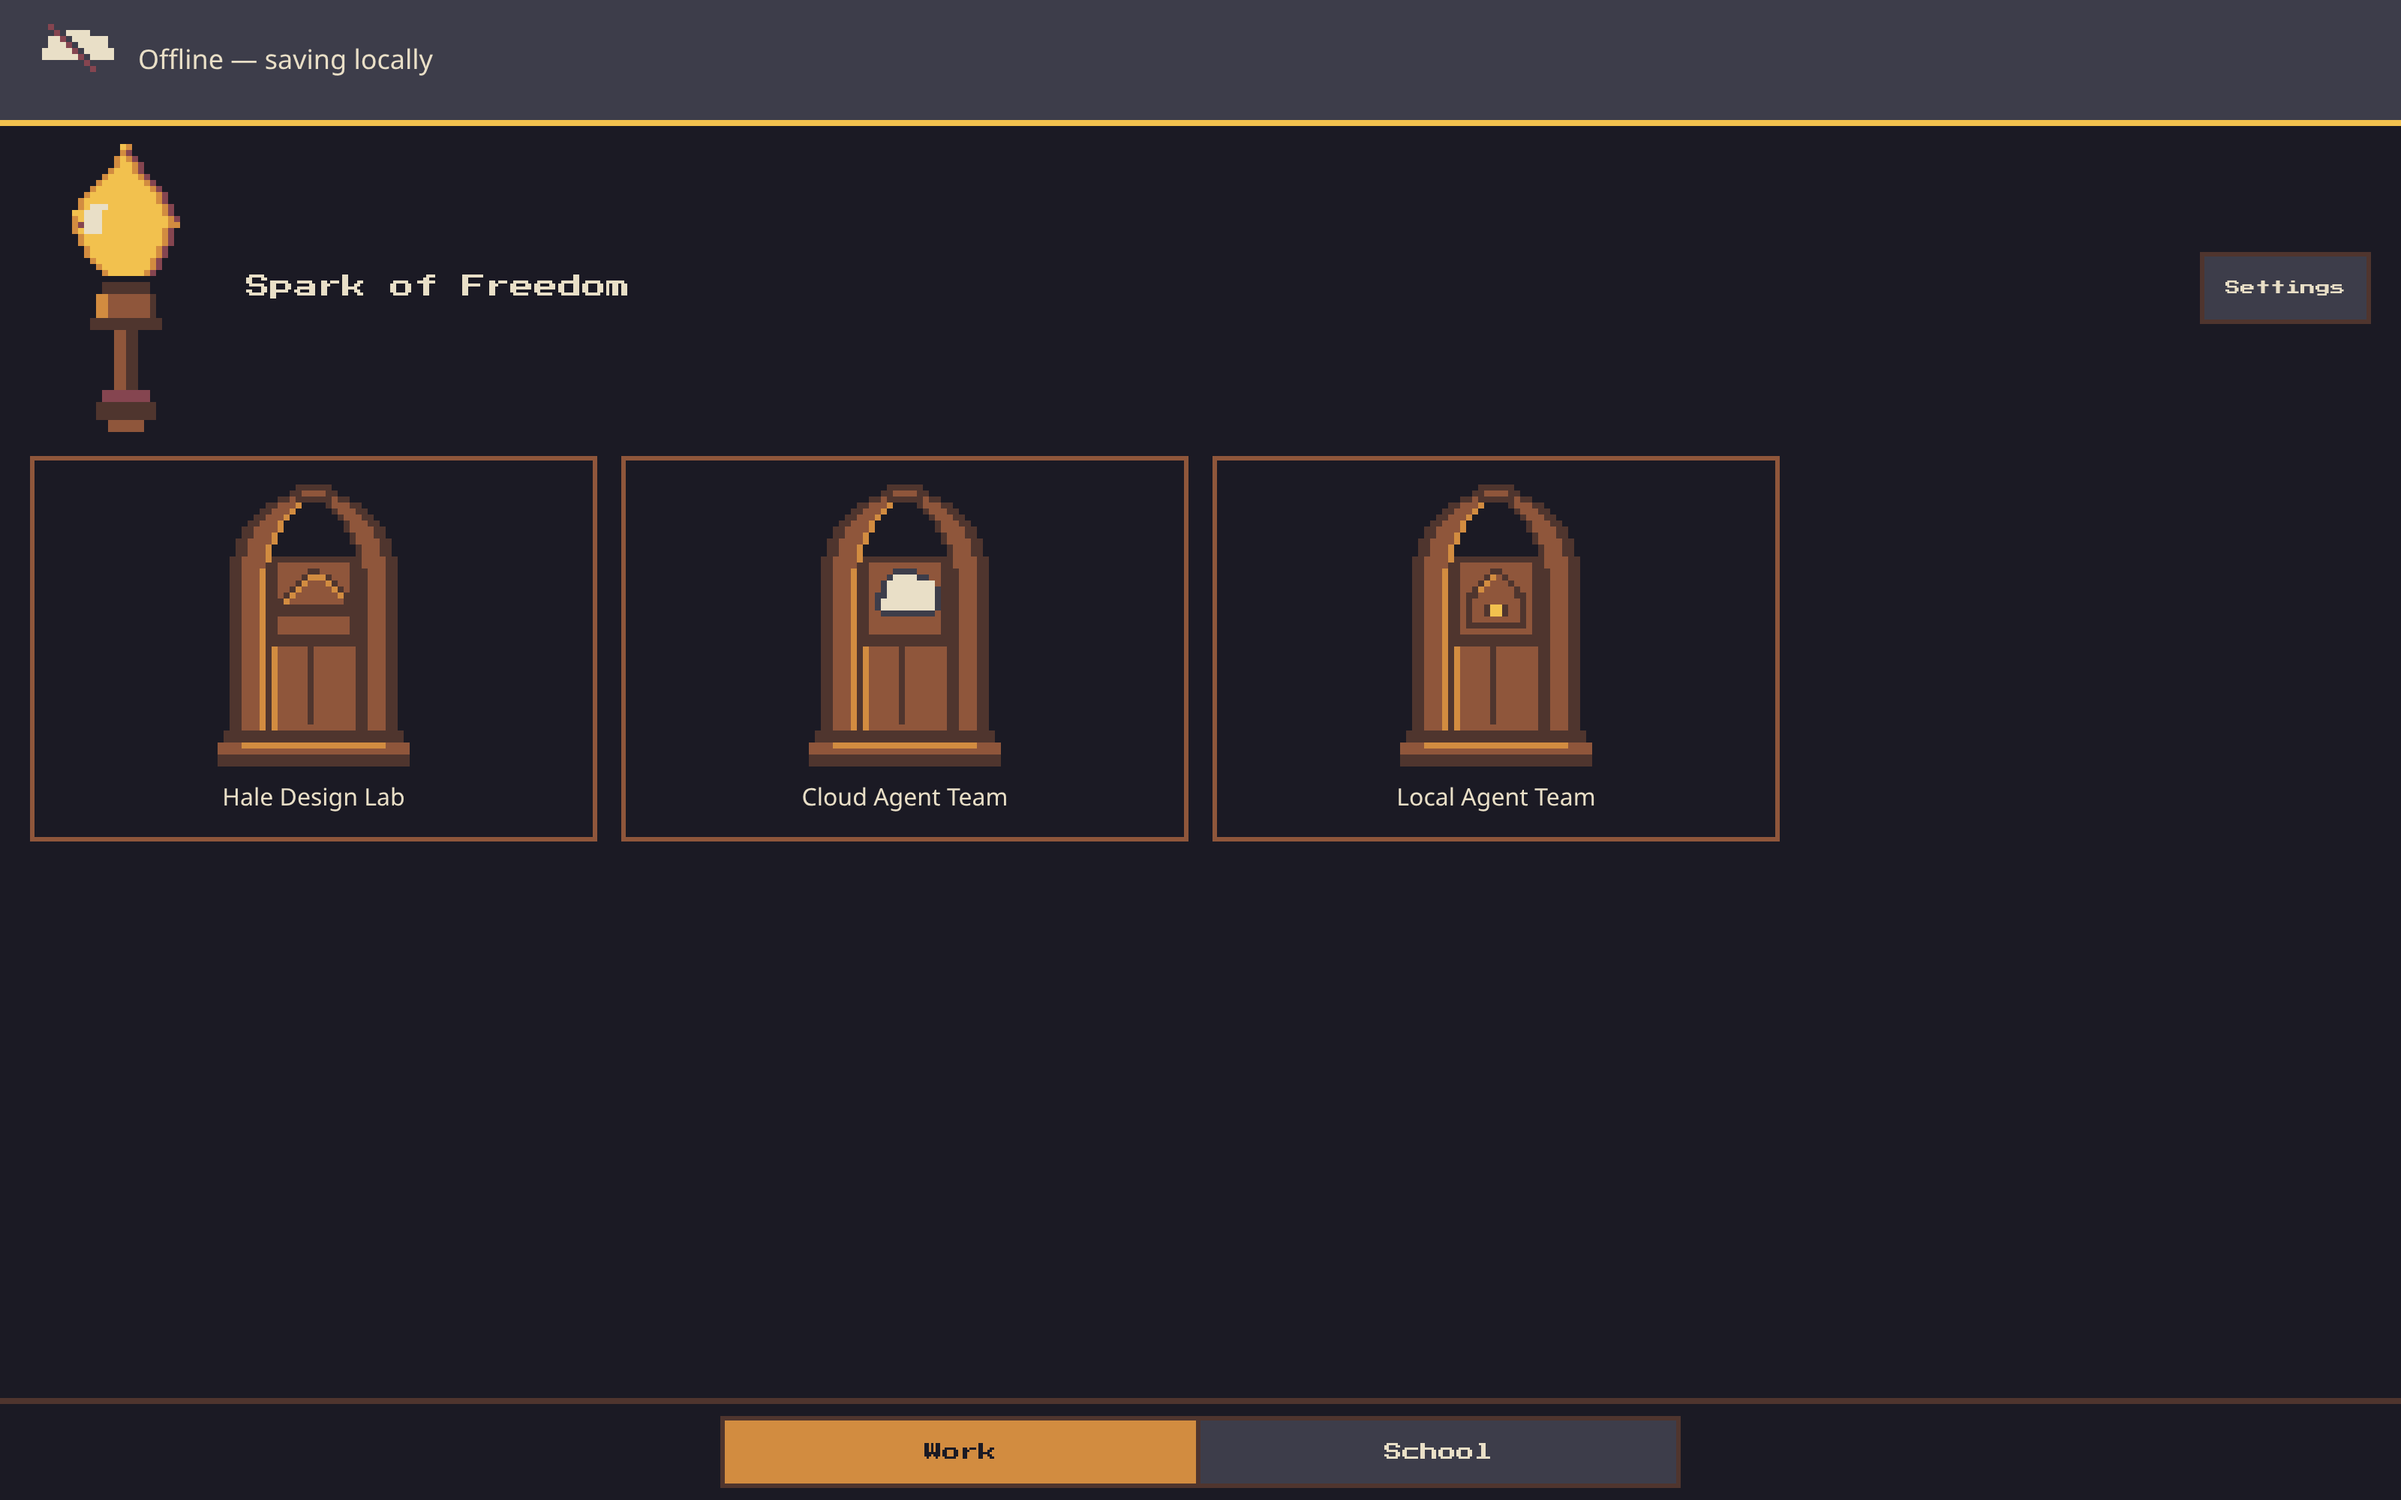
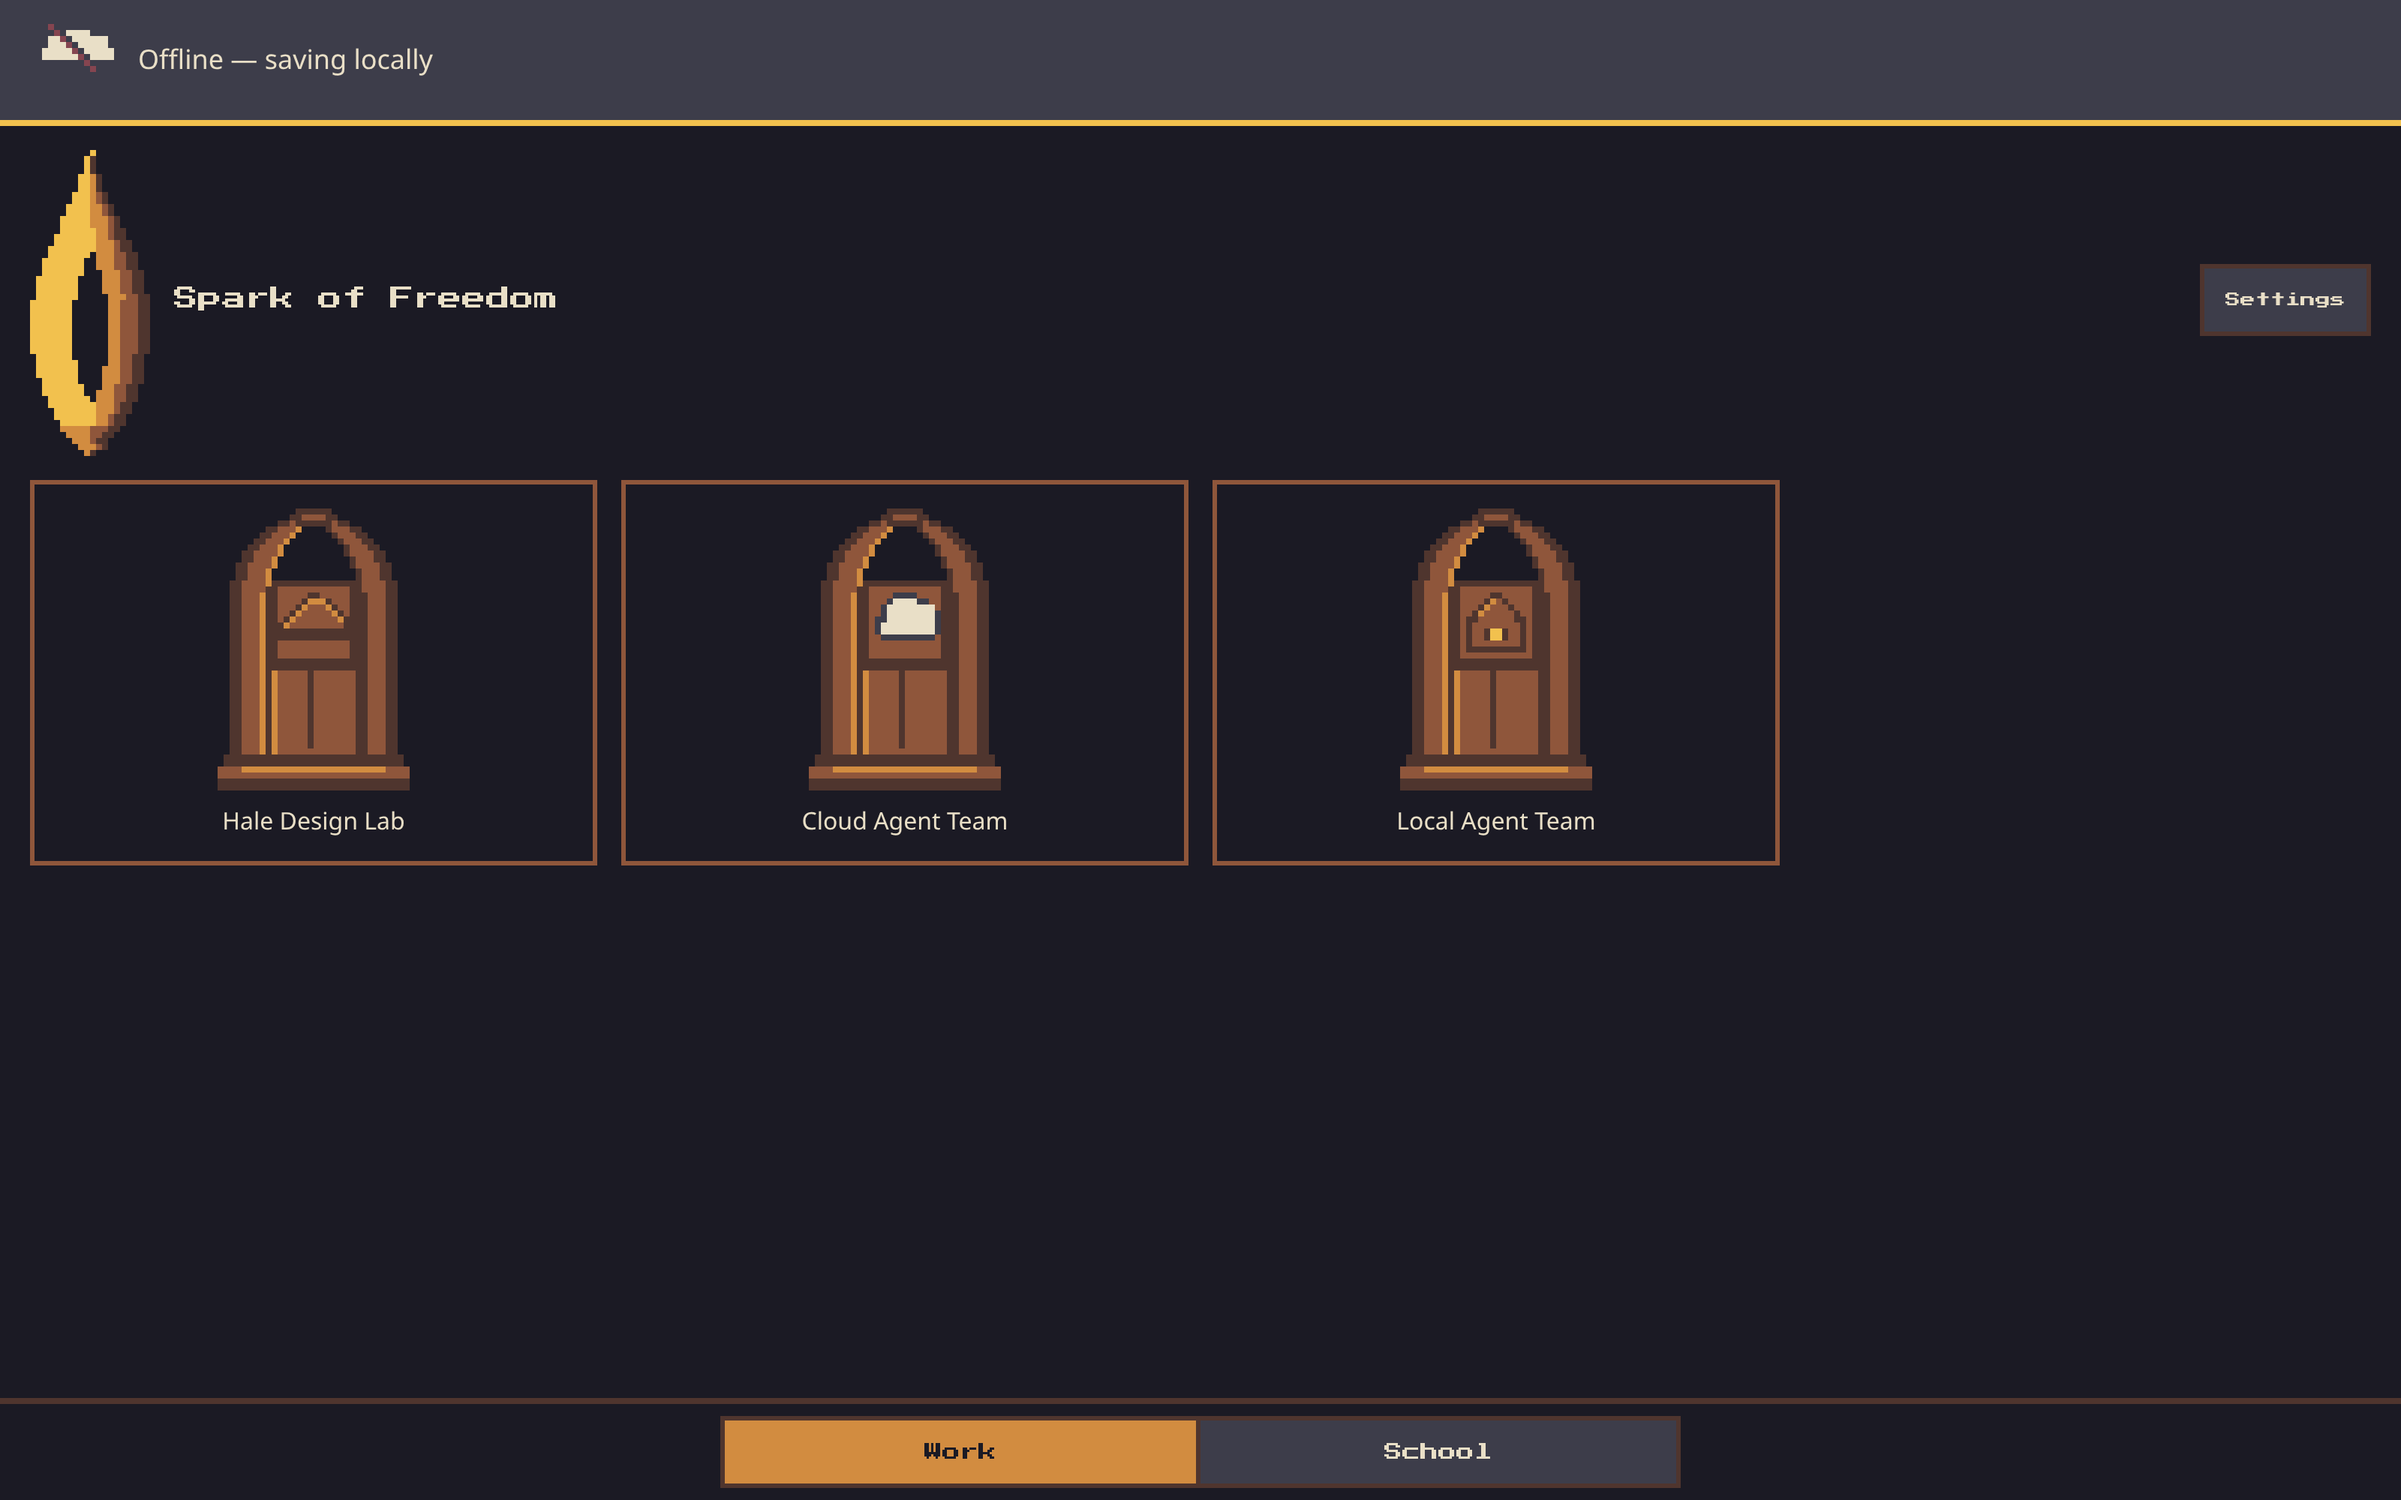
Pixelize the Monastery flame as the splash mark.
Replace the torch glyph with the almond flame only, drawn in the Founder Ember palette, on the splash, the home header, and the desktop rail.

diff --git a/client/src/design/sprites/flame.ts b/client/src/design/sprites/flame.ts
@@ -1,52 +1,60 @@
 import type { SpriteGrid } from "./types";
 
+/**
+ * Sovereign Monastery flame, flame only: the gold almond with a hollow centre,
+ * pixelized into Founder Ember. No diamond frame and no torch stand.
+ */
 export const flame: SpriteGrid = [
-  "...............fe...............",
-  "...............em...............",
-  "..............efem..............",
-  "..............effem.............",
-  ".............efffem.............",
-  "............efffffem............",
-  "...........efffffffem...........",
-  "..........efffffffffem..........",
-  ".........efffffffffffem.........",
-  "........effffffffffffem.........",
-  "........efpppfffffffffem........",
-  ".......ffpppffffffffffem........",
-  ".......efpppfffffffffffem.......",
-  ".......empppfffffffffffee.......",
-  ".......efpppffffffffffem........",
-  "........efffffffffffffem........",
-  "........efffffffffffffem........",
-  ".........efffffffffffem.........",
-  ".........efffffffffffem.........",
-  "..........efffffffffem..........",
-  "...........effffffffem..........",
-  "............effffffem...........",
-  "................................",
-  "............dddddddd............",
-  "............dddddddd............",
-  "...........eewwwwwwwd...........",
-  "...........eewwwwwwwd...........",
-  "...........eewwwwwwwd...........",
-  "...........eewwwwwwwd...........",
-  "..........dddddddddddd..........",
-  "..........dddddddddddd..........",
-  "..............wwdd..............",
-  "..............wwdd..............",
-  "..............wwdd..............",
-  "..............wwdd..............",
-  "..............wwdd..............",
-  "..............wwdd..............",
-  "..............wwdd..............",
-  "..............wwdd..............",
-  "..............wwdd..............",
-  "..............wwdd..............",
-  "............mmmmmmmm............",
-  "............mmmmmmmm............",
-  "...........dddddddddd...........",
-  "...........dddddddddd...........",
-  "...........dddddddddd...........",
-  ".............wwwwww.............",
-  ".............wwwwww.............",
+  "....................",
+  "..........f.........",
+  ".........fd.........",
+  ".........fd.........",
+  ".........fd.........",
+  "........ffed........",
+  "........ffed........",
+  "........ffed........",
+  ".......fffewd.......",
+  ".......fffewd.......",
+  "......ffffeewd......",
+  "......ffffeewd......",
+  ".....fffffeeewd.....",
+  ".....fffffeeewd.....",
+  ".....ffffffeewdd....",
+  "....fffffffeewdd....",
+  "....fffffffeeewdd...",
+  "...ffffffffeeewdd...",
+  "...fffffff.eeewwdd..",
+  "..fffffff..eeewwdd..",
+  "..fffffff..eeewwdd..",
+  "..fffffff...eeewwdd.",
+  ".fffffff....eeewwdd.",
+  ".fffffff....eeewwdd.",
+  ".fffffff....eeewwdd.",
+  ".fffffff.....eeewwdd",
+  "fffffff......eewwwdd",
+  "fffffff......eewwwdd",
+  "fffffff......eewwwdd",
+  "fffffff......eewwwdd",
+  "fffffff......eewwwdd",
+  "fffffff......eewwwdd",
+  "fffffff......eewwwdd",
+  "fffffff......eewwwdd",
+  "fffffff......eewwwdd",
+  ".ffffff......eewwdd.",
+  ".fffffff.....eewwdd.",
+  ".fffffff....eeewwdd.",
+  ".fffffff....eeewwdd.",
+  "..ffffff....eeewwdd.",
+  "..fffffff...eewwdd..",
+  "..fffffff..eeewwdd..",
+  "...fffffff.eeewwdd..",
+  "...ffffffffeeewdd...",
+  "....fffffffeeewdd...",
+  "....fffffffeewdd....",
+  ".....ffffffeewdd....",
+  ".....eeeeewwwdd.....",
+  "......eeeewwdd......",
+  ".......eeewdd.......",
+  "........eeewd.......",
+  ".........ed.........",
 ];

diff --git a/docs/decisions/0002-pixel-art-direction.md b/docs/decisions/0002-pixel-art-direction.md
@@ -6,7 +6,7 @@ Accepted. The eight-colour Founder Ember palette was approved on 28 Oct 2026.
 
 ## Context
 
-The shell should feel like a quiet study hall: lamp light, wood, paper, and a flame of freedom. It is deliberately separate from The Sovereign Monastery. No Monastery logo, wordmark, or gold-on-black treatment.
+The shell should feel like a quiet study hall: lamp light, wood, paper, and a flame of freedom. The splash mark is the Sovereign Monastery flame only — the almond with a hollow centre — pixelized into Founder Ember. No diamond frame, no torch stand, and no Monastery wordmark. The shell wordmark stays "Spark of Freedom".
 
 The reference sheets are low-resolution pixel art: full-body figures, flat shading, and a short vertical swatch column. Outlines are a darker tone of the local colour.
 
@@ -15,7 +15,7 @@ The reference sheets are low-resolution pixel art: full-body figures, flat shadi
 - Sprites are palette-indexed string grids in `client/src/design/sprites`, drawn at an integer scale of ×4 to ×8 with `image-rendering: pixelated`.
 - Founder Ember (`night`, `slate`, `paper`, `wood`, `darkwood`, `ember`, `flame`, `plum`) is the only UI palette, plus the school accent set for curriculum marks. Both live in `client/src/design/palette.ts`.
 - Each scene stays near eight colours. Shading is one base tone plus one or two darker tones.
-- The Spark of Freedom flame is new pixel art for this project.
+- The Spark of Freedom mark is that pixelized flame, used on the splash, the home header, and the desktop rail.
 - Motion is at most a two-frame swap (splash auto-continue, door open). `prefers-reduced-motion` skips both. Nothing loops.
 - Headings use the OFL Press Start 2P font, bundled under `client/src/fonts` with its license. Body text uses a system sans.
 - Every state has to stay readable in grayscale. Lamp on, off, and failed differ in shape, which the grayscale grid test locks in.
